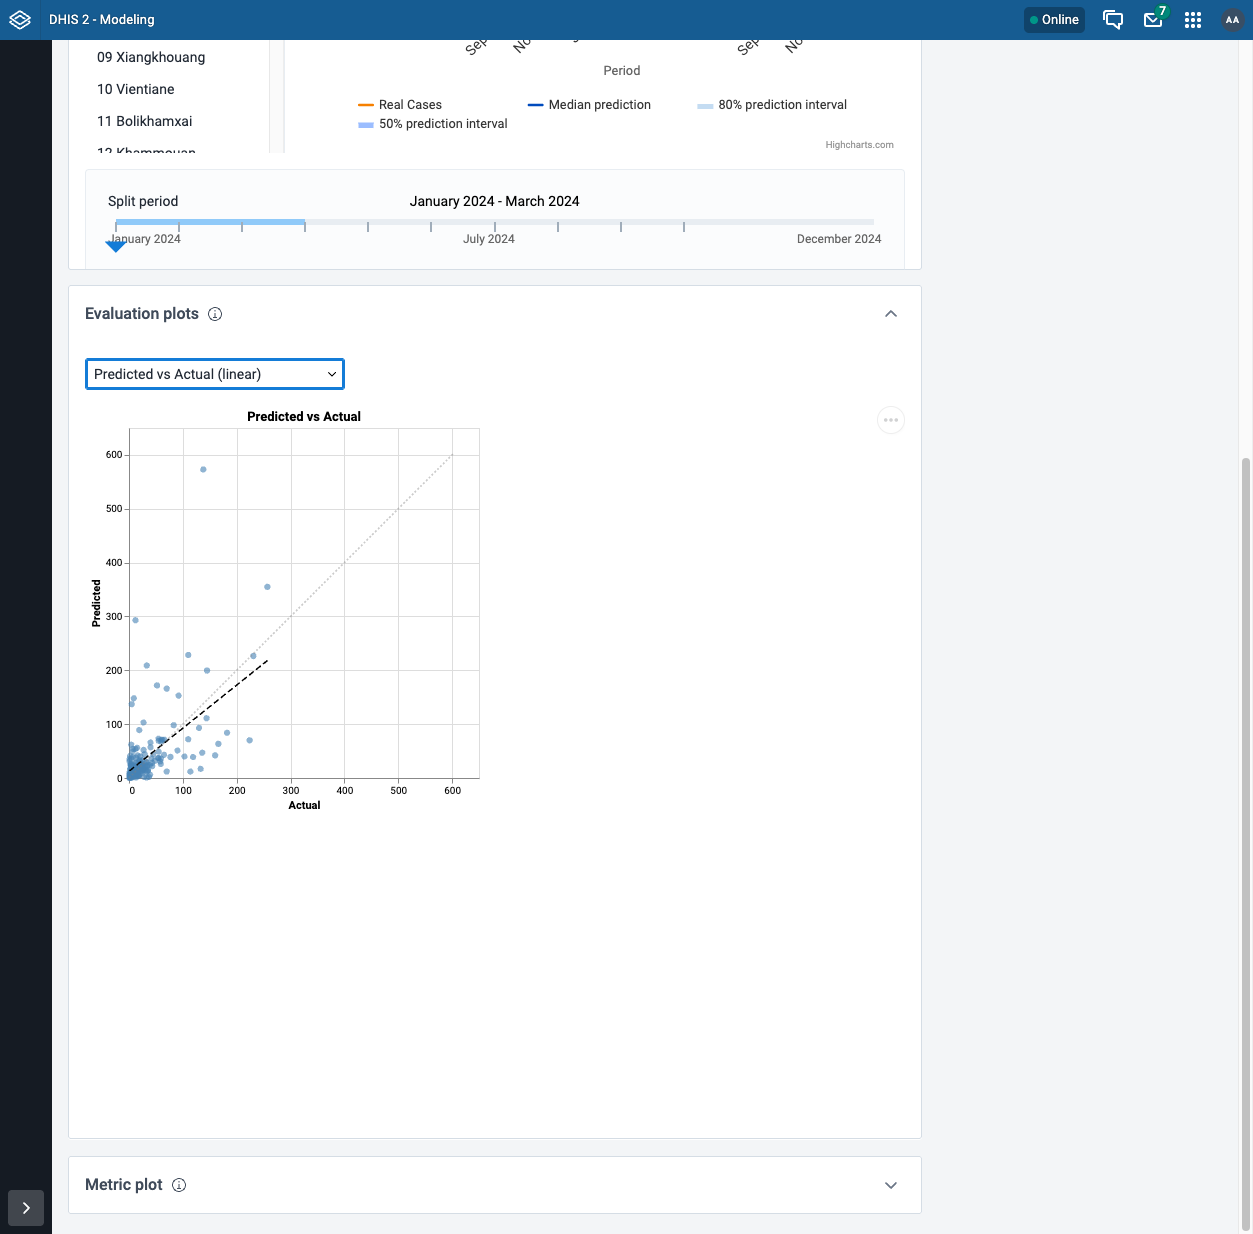
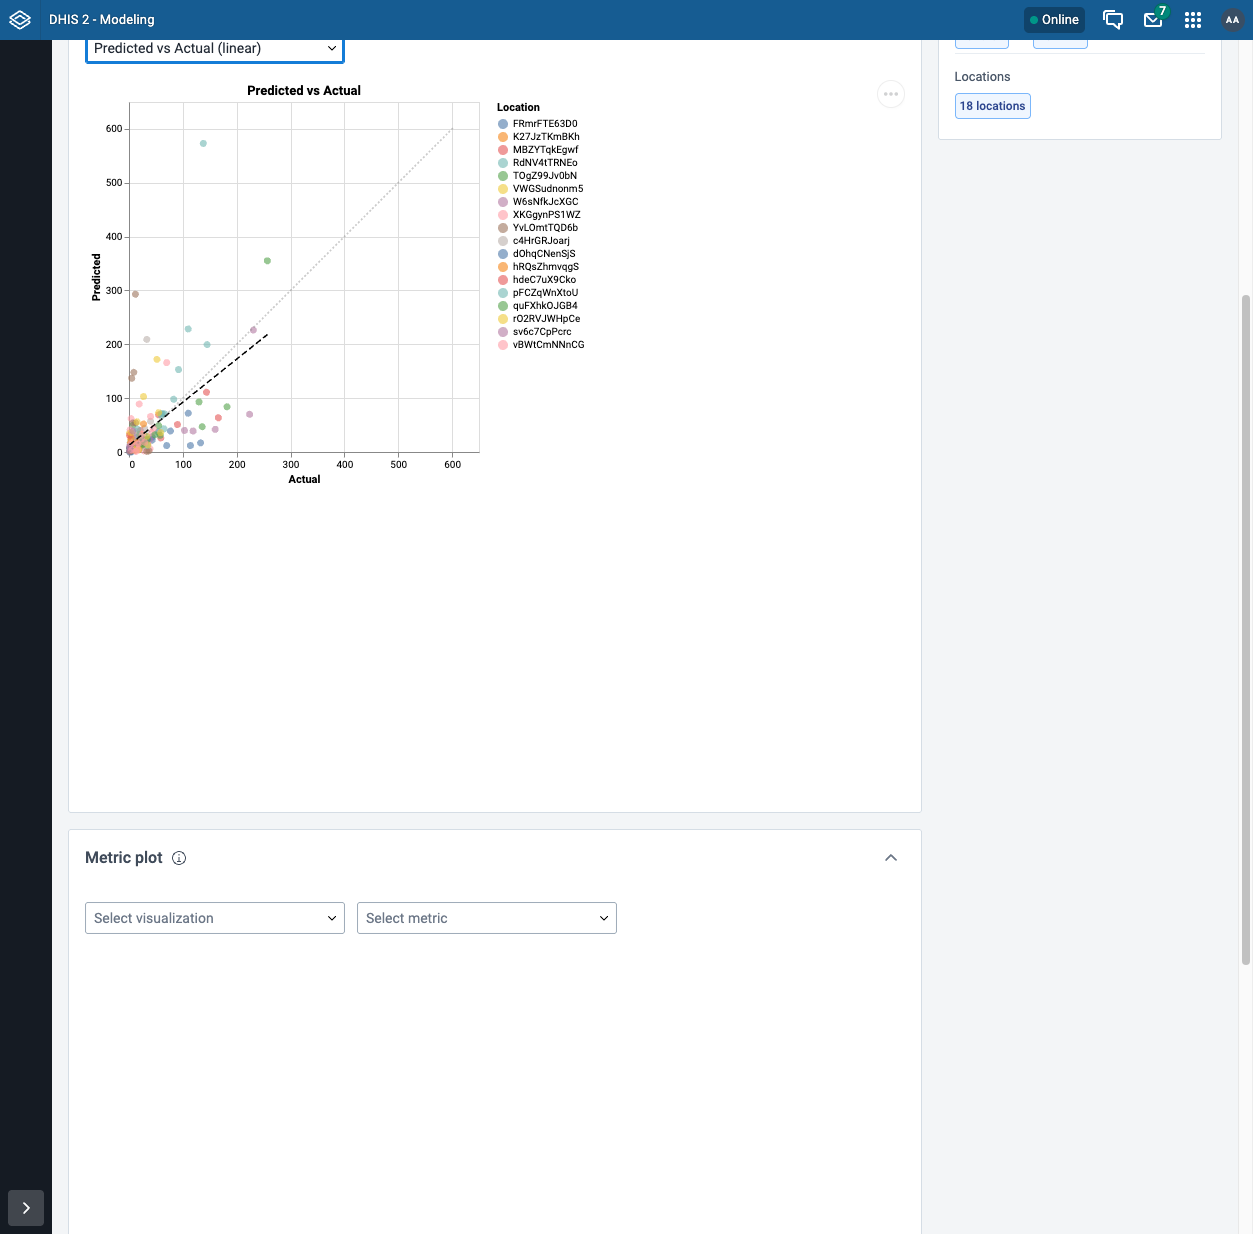
fix: add location coloring to linear scatter plot to match log1p variant

diff --git a/chap_core/assessment/backtest_plots/predicted_vs_actual_linear_plot.py b/chap_core/assessment/backtest_plots/predicted_vs_actual_linear_plot.py
@@ -37,9 +37,10 @@ class PredictedVsActualLinearPlot(BacktestPlotBase):
 
         base = alt.Chart(merged)
 
-        scatter = base.mark_circle(size=40, opacity=0.6, color="steelblue").encode(
+        scatter = base.mark_circle(size=50, opacity=0.6).encode(
             x=alt.X("disease_cases:Q", title="Actual", scale=alt.Scale(domain=[0, axis_max])),
             y=alt.Y("median_forecast:Q", title="Predicted", scale=alt.Scale(domain=[0, axis_max])),
+            color=alt.Color("location:N", title="Location"),
             tooltip=[
                 alt.Tooltip("location:N"),
                 alt.Tooltip("time_period:N"),
